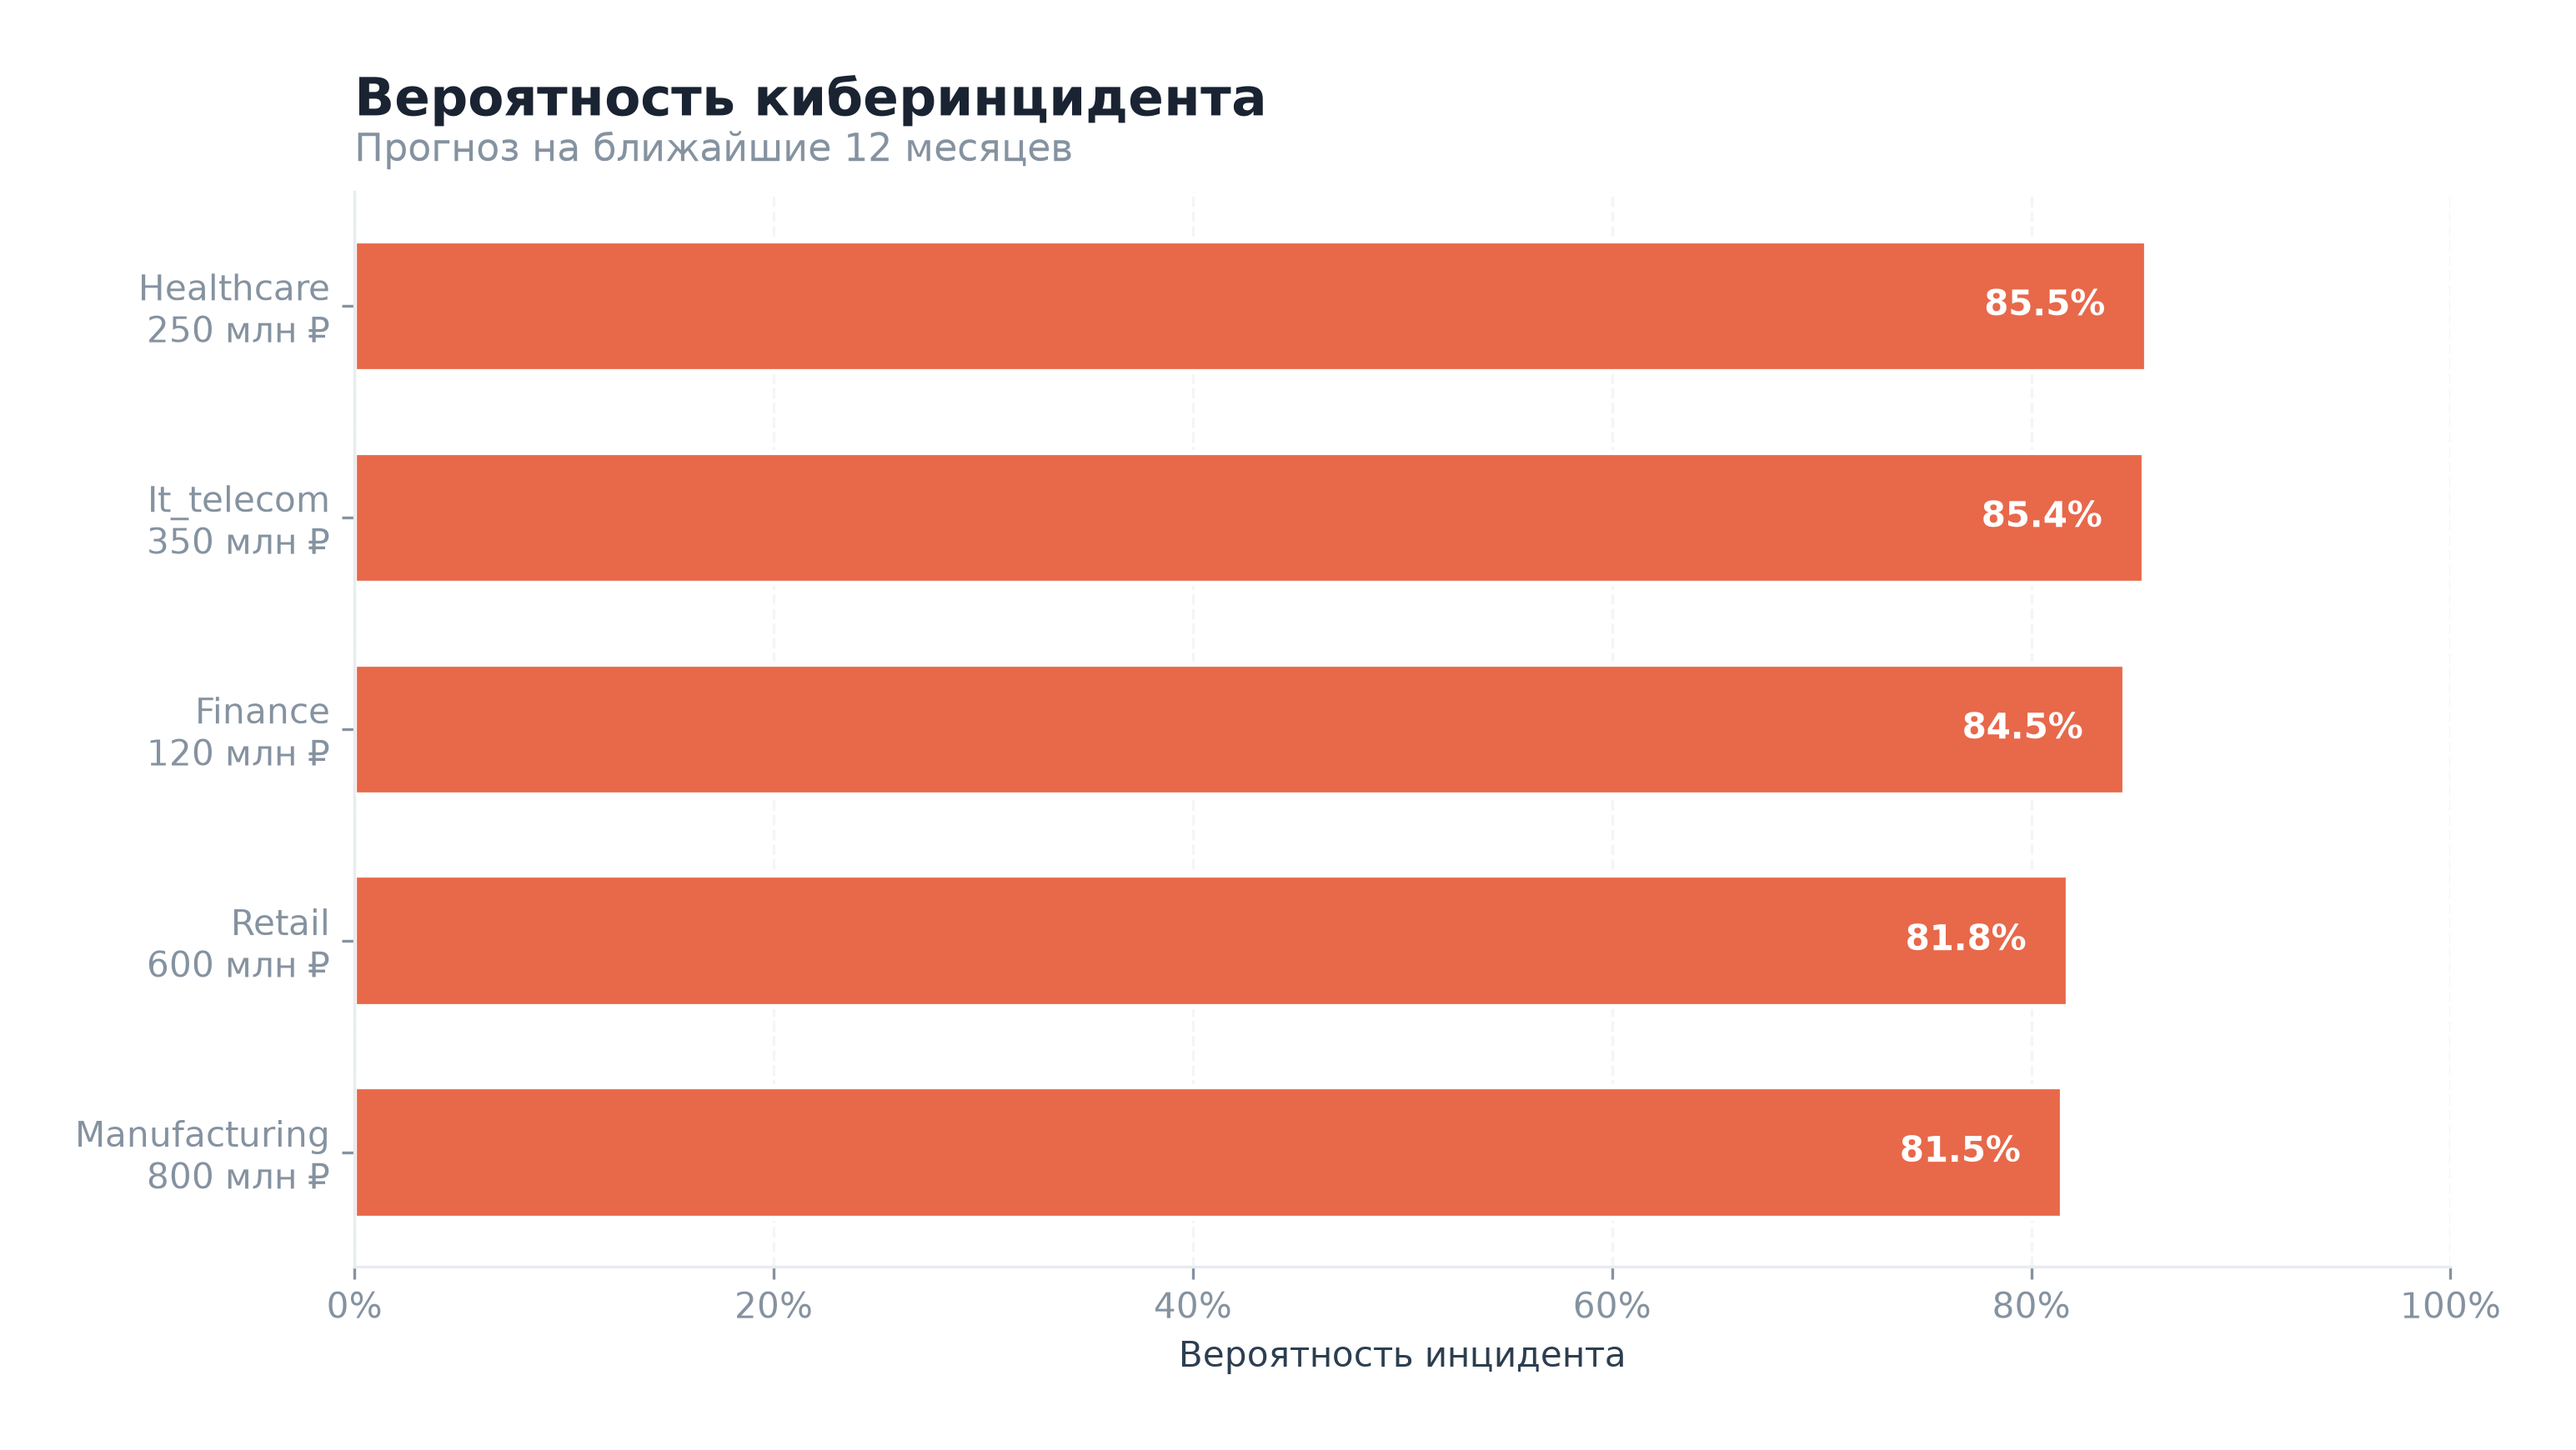
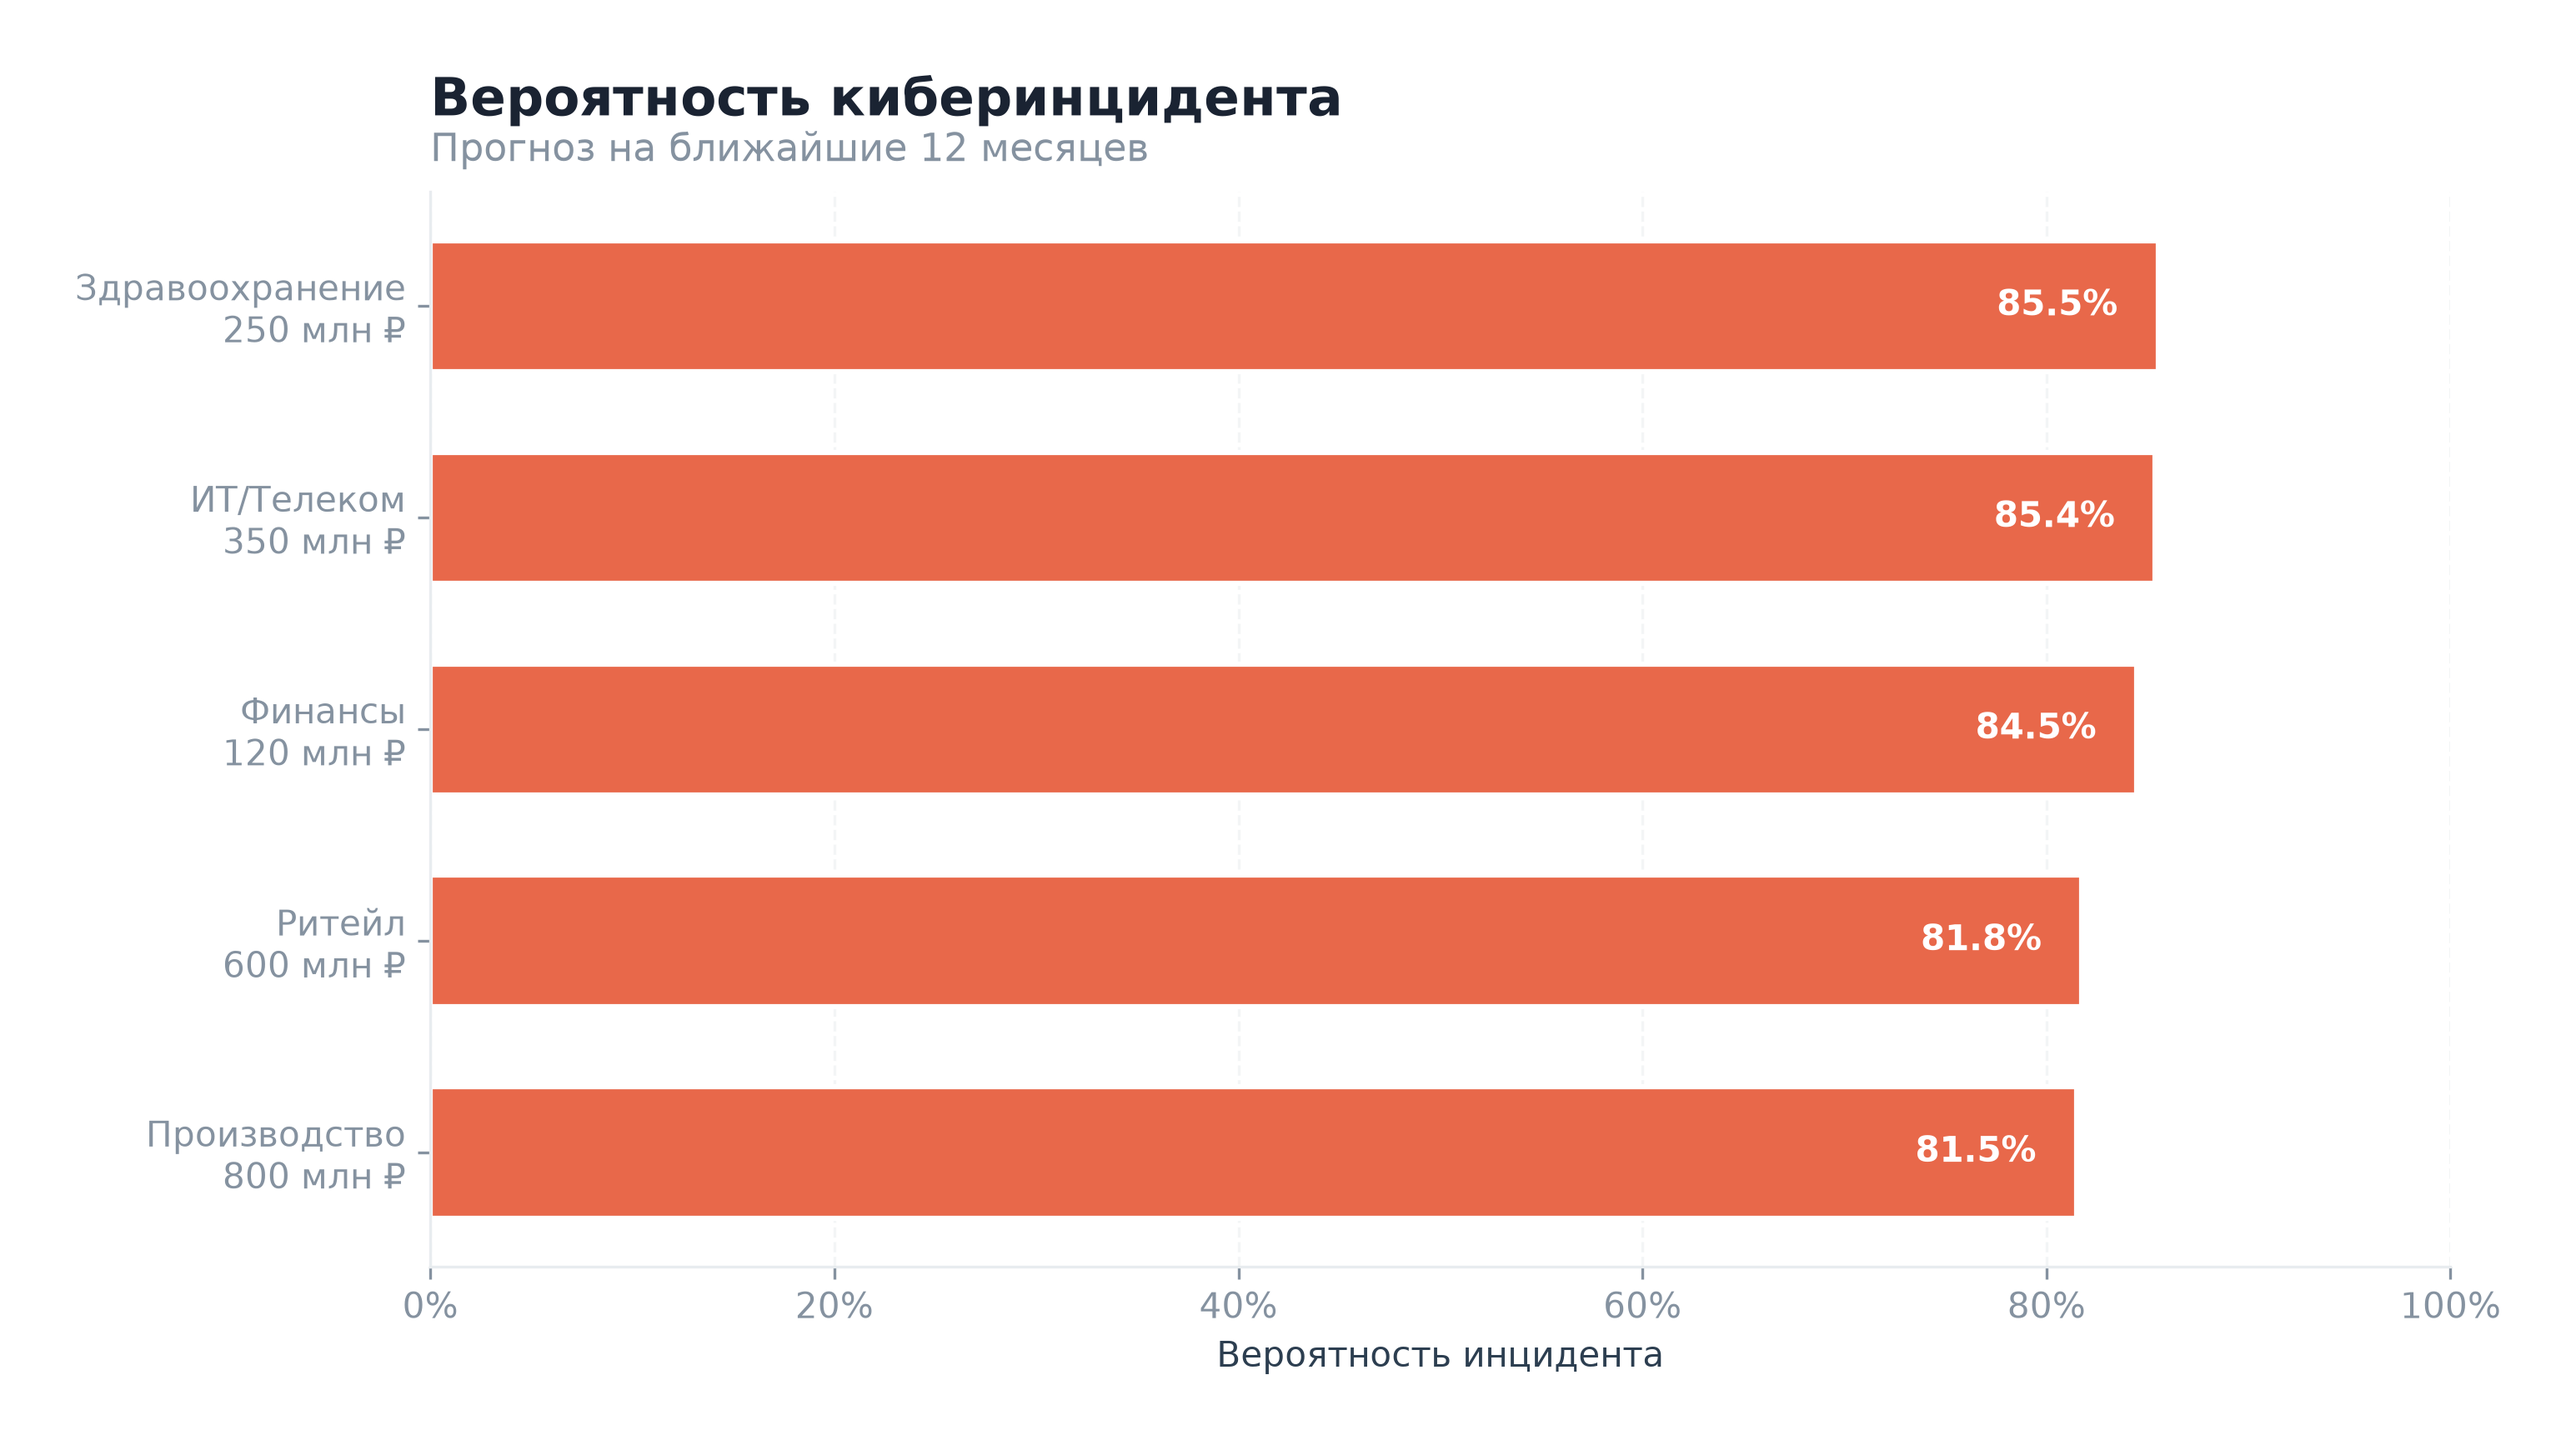
Translating charts into Russian - The company names on the charts used to be in English; now they are in Russian - The training stages in the visualization were previously labeled in English; now they are in Russian

diff --git a/visualization/presentation/nn_training.py b/visualization/presentation/nn_training.py
@@ -219,7 +219,7 @@ def create_training_animation(output: str | Path = DEFAULT_OUTPUT, fps: int = FP
             phase_text.set_text('')
         # Forward: все ребра, включая W1
         elif t < P_FWD_END:
-            phase_text.set_text('Forward pass →')
+            phase_text.set_text('Прямой проход →')
             phase_text.set_color('#C73E1D')
             p = (t - P_FWD_START) / (P_FWD_END - P_FWD_START)
             progress = p * N_STAGES
@@ -234,7 +234,7 @@ def create_training_animation(output: str | Path = DEFAULT_OUTPUT, fps: int = FP
                         fwd_colors[i] = (r, g, b, inten)
         # Loss: пульсируют ребра, ведущие к головам
         elif t < P_LOSS_END:
-            phase_text.set_text('Loss calculation')
+            phase_text.set_text('Расчет потерь')
             phase_text.set_color('#C73E1D')
             p = (t - P_LOSS_START) / (P_LOSS_END - P_LOSS_START)
             pulse = np.sin(p * np.pi)
@@ -244,7 +244,7 @@ def create_training_animation(output: str | Path = DEFAULT_OUTPUT, fps: int = FP
                     fwd_colors[i] = (r, g, b, pulse)
         # Backward: тоже все ребра, включая W1
         elif t < P_BWD_END:
-            phase_text.set_text('← Backward pass')
+            phase_text.set_text('← Обратный проход')
             phase_text.set_color('#5B8FF9')
             p = (t - P_BWD_START) / (P_BWD_END - P_BWD_START)
             progress = p * N_STAGES

diff --git a/visualization/plots/scatter.py b/visualization/plots/scatter.py
@@ -8,6 +8,7 @@ from matplotlib.figure import Figure
 from matplotlib.lines import Line2D
 from visualization.plots.base import BasePlot
 from visualization.theme import Theme
+from visualization.labels import industry_label
 
 
 class RiskReturnPlot(BasePlot):
@@ -47,7 +48,7 @@ class RiskReturnPlot(BasePlot):
                 linewidth=2, zorder=3,
             )
         for _, row in df.iterrows():
-            ind = row['Отрасль'].capitalize()
+            ind = industry_label(row['Отрасль'])
             revenue = row['Годовая выручка (млн руб.)']
             ax.annotate(
                 f"{ind} · {revenue:.0f}",
@@ -88,7 +89,7 @@ class RiskReturnPlot(BasePlot):
                     markerfacecolor=color,
                     markeredgecolor=Theme.COLORS['white'],
                     markeredgewidth=1.2,
-                    label=industry.capitalize(),
+                    label=industry_label(industry),
                 )
             )
         ax.legend(

diff --git a/visualization/labels.py b/visualization/labels.py
@@ -1,0 +1,23 @@
+"""
+Словарь переводов идентификаторов для отображения на графиках
+"""
+
+INDUSTRY_LABELS = {
+    'finance':       'Финансы',
+    'retail':        'Ритейл',
+    'it_telecom':    'ИТ/Телеком',
+    'manufacturing': 'Производство',
+    'healthcare':    'Здравоохранение',
+    'other':         'Другое',
+}
+
+def industry_label(code: str) -> str:
+    """
+    Переводит идентификатор отрасли в русское название
+    Args:
+        code: код отрасли из датасета ('finance', 'retail', ...)
+    Returns:
+        Русское название. Если код незнаком, возвращается сам код
+        с заглавной буквы
+    """
+    return INDUSTRY_LABELS.get(code, code.capitalize())

diff --git a/visualization/plots/base.py b/visualization/plots/base.py
@@ -9,6 +9,7 @@ import pandas as pd
 import matplotlib.pyplot as plt
 from matplotlib.figure import Figure
 from visualization.theme import Theme
+from visualization.labels import industry_label
 
 
 class BasePlot(ABC):
@@ -79,12 +80,12 @@ class BasePlot(ABC):
         """
         Форматирует метку компании для оси
         Args:
-            industry: название отрасли
+            industry: код отрасли
             revenue: годовая выручка в млн руб
         Returns:
-            Строка вида "Finance\\n350 млн ₽"
+            Строка вида "Финансы\\n350 млн ₽"
         """
-        name = industry.capitalize()
+        name = industry_label(industry)
         if revenue >= 1000:
             rev = f'{revenue / 1000:.1f} млрд ₽'
         else:

diff --git a/visualization/plots/risk_factors.py b/visualization/plots/risk_factors.py
@@ -9,6 +9,7 @@ from typing import Tuple, List
 from matplotlib.figure import Figure
 from visualization.plots.base import BasePlot
 from visualization.theme import Theme
+from visualization.labels import industry_label
 
 
 class RiskFactorsPlot(BasePlot):
@@ -59,7 +60,7 @@ class RiskFactorsPlot(BasePlot):
         ax.xaxis.set_major_formatter(plt.FuncFormatter(lambda x, _: f'{x:.0%}'))
         ax.grid(axis='x', linestyle='--', alpha=0.5)
         ax.set_axisbelow(True)
-        industry = company['Отрасль'].capitalize()
+        industry = industry_label(company['Отрасль'])
         revenue = company['Годовая выручка (млн руб.)']
         self.subtitle = (
             f'Компания с максимальным риском: '

diff --git a/README.md b/README.md
@@ -526,6 +526,7 @@ ai-insurance-cyber-risk-forecast/
 │   ├── __init__.py
 │   ├── dashboard.py                    # Оркестратор
 │   ├── data_provider.py                # Синглтон для загрузки предсказаний
+│   ├── labels.py                       # Перевод названий компаний на русский
 │   └── theme.py                        # Цвета, шрифты, стиль
 │
 ├── .gitignore

diff --git a/README.en.md b/README.en.md
@@ -526,6 +526,7 @@ ai-insurance-cyber-risk-forecast/
 │   ├── __init__.py
 │   ├── dashboard.py                    # Orchestrator
 │   ├── data_provider.py                # Singleton for loading predictions
+│   ├── labels.py                       # Translation of company names into Russian
 │   └── theme.py                        # Colors, fonts, style
 │
 ├── .gitignore
